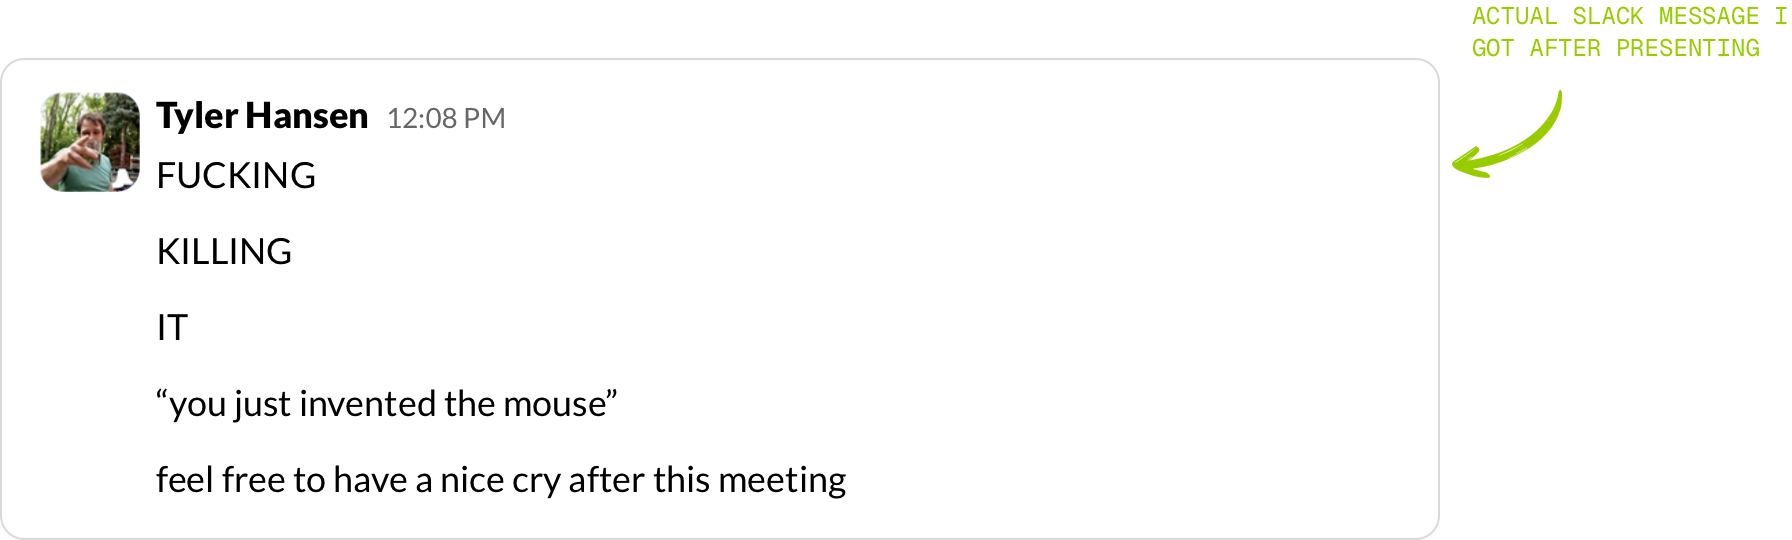
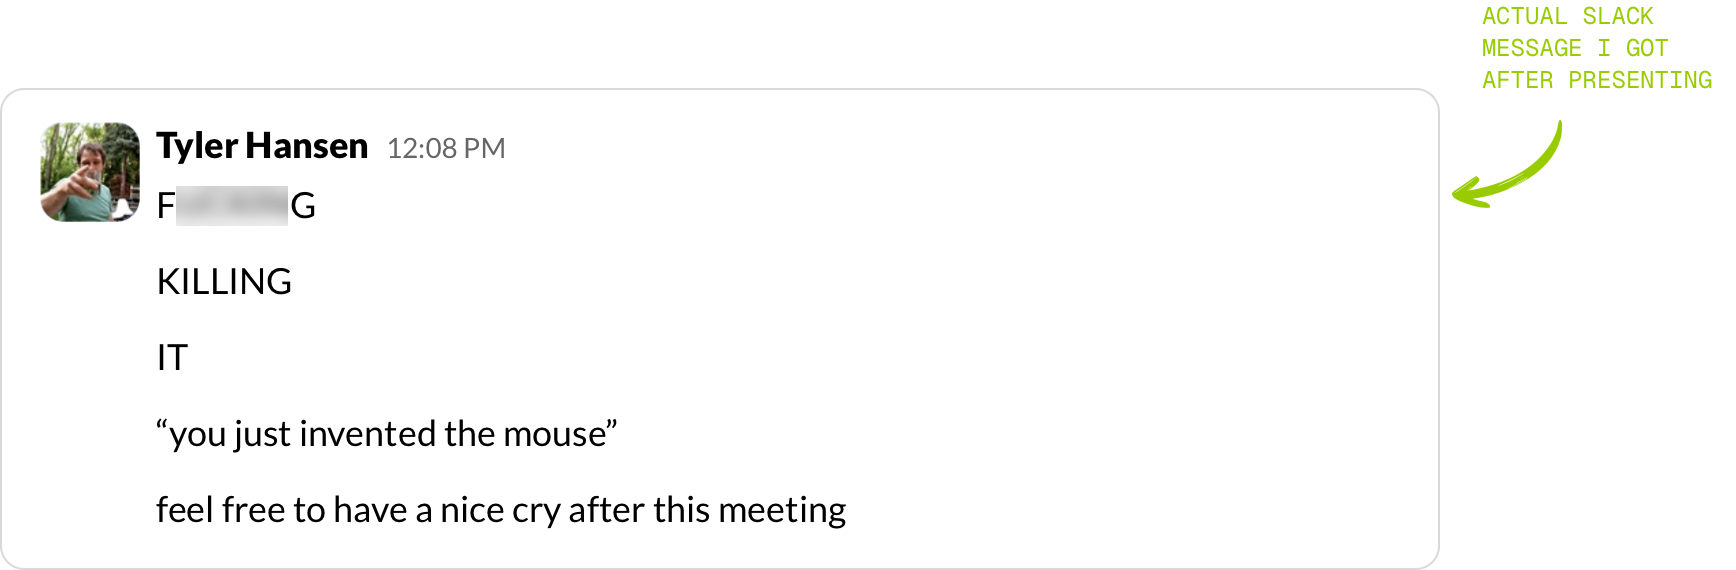
Update Particle case study intro and tyler-quote image

diff --git a/src/data/projects-meta.js b/src/data/projects-meta.js
@@ -10,7 +10,7 @@ export const projectsMeta = [
     year: '2026',
     description:
       'An AI-powered spatial research canvas that lets investors capture, annotate, and connect company data. Designed at Particle.',
-    intro: `After a recent pivot to focus on a new ICP (retail and institutional investors) the idea was that by coupling finance information like stock pricing and trends with data we are able to pull in from things like the news (check out Particle's rad mobile app) via our API, we'd be able to surface rich insights to help them make better financial decisions. A big factor in being able to explore a feature like this was that our API was really teeing up some great data along with MCP tools to sink our teeth into as builders.`,
+    intro: `Canvas as Collaborator: an AI powered spatial research surface for investors`,
     sections: [
       {
         type: 'section',
